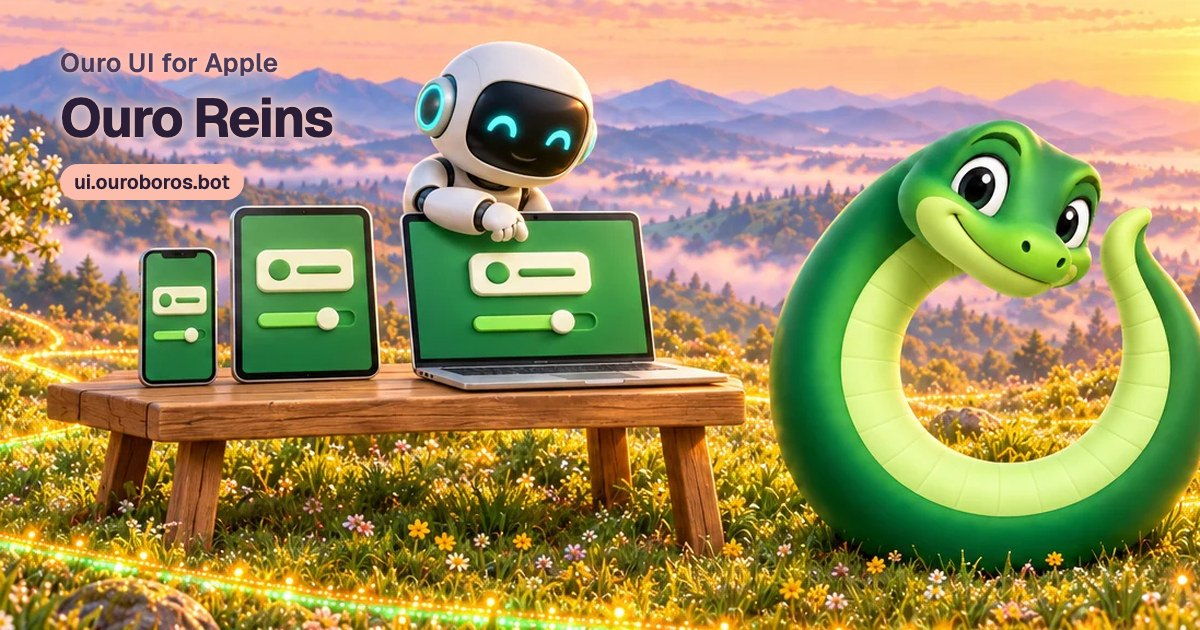
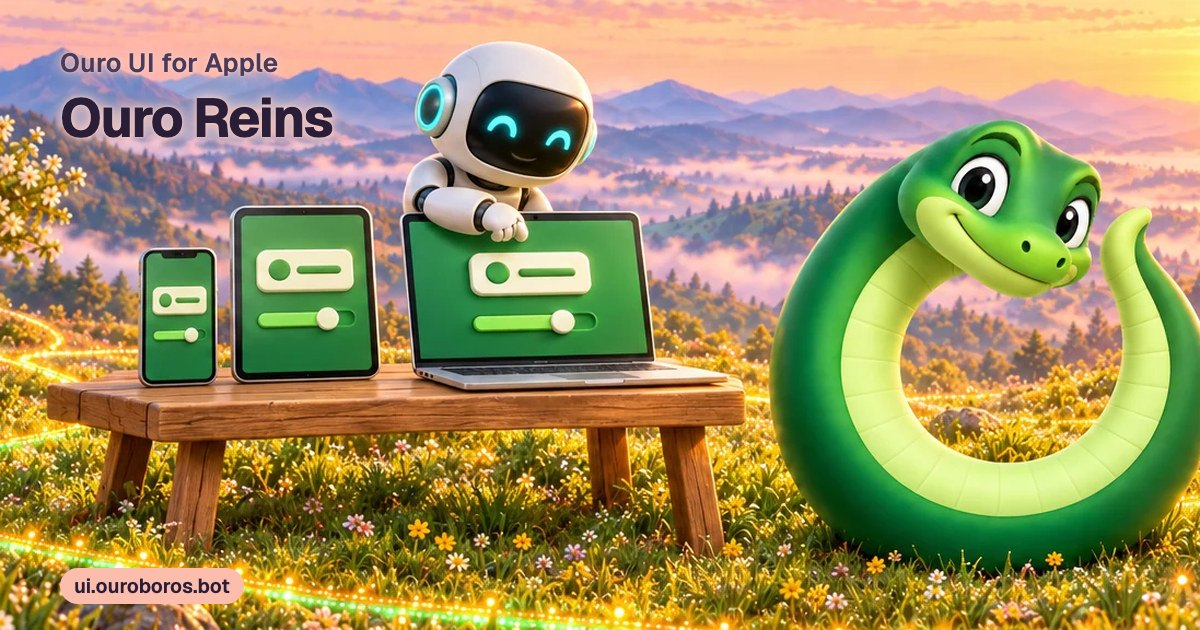
Site: the critics' second round: the header marks the right section on every docs page, the skip link lands on a docs page's title, card addresses sit clear of the drawings, and the leagues log keeps off the words

Changed region(s): [[0.0308, 0.8746, 0.2158, 0.9651], [0.0308, 0.2413, 0.2158, 0.3317]]

diff --git a/site/src/components/docs-header.tsx b/site/src/components/docs-header.tsx
@@ -28,11 +28,15 @@ function DocsXray(): JSX.Element | null {
   ) : null;
 }
 
-/** The header link a docs page is under: the catalog, each component's page and each helper's under Components, a guide under Docs. */
+/**
+ * The header link a docs page is under: the catalog, each component's page and each helper's under Ouro HX, Ouro AX's
+ * guide and its parts under Ouro AX, any other guide under Guides, and the lost page under none.
+ */
 export function headerPath(current: string): string {
-  return current === "/docs/" || docsItems.some((item) => current === `/docs/${item.name}/`) || helpers.some((page) => page.path === current)
-    ? "/docs/"
-    : "/docs/installing/";
+  if (current === "") return "";
+  if (current === "/docs/" || docsItems.some((item) => current === `/docs/${item.name}/`) || helpers.some((page) => page.path === current)) return "/docs/";
+  if (/^\/docs\/ax(-[a-z0-9-]+)?\/$/.test(current)) return "/ax/";
+  return "/docs/installing/";
 }
 
 const asPage = ({ path, label }: DocsLink) => ({ label, href: path });
@@ -172,10 +176,10 @@ function DocsMenu({ current }: { current: string }): JSX.Element {
           page={current}
           // Both docs sections list their pages, as the sidebar does on a wide screen, each list folded under its name.
           more={{
-            Install: (
+            Guides: (
               <Folds
                 groups={[
-                  { label: "Guides", links: guides.filter((link) => !isAxPart(link)).map((link) => ({ ...link, label: guideLabel(link.label) })) },
+                  { label: "More guides", links: guides.filter((link) => !isAxPart(link)).map((link) => ({ ...link, label: guideLabel(link.label) })) },
                   { label: "Ouro AX, part by part", links: guides.filter(isAxPart) },
                   { label: "Skill comparisons", links: comparisons },
                   { label: "Platforms", links: platforms },
@@ -233,6 +237,8 @@ export default function DocsHeader({ current }: { current: string }): JSX.Elemen
         page={current}
         menu={<DocsMenu current={current} />}
         gutters="docs"
+        // A docs page's title sits in its scene, before the sidebar and <main>: the skip link lands on it, so it is not skipped.
+        skipTo={current === "" ? undefined : "page-title"}
       />
       <DocsXray />
     </>

diff --git a/site/src/site.test.tsx b/site/src/site.test.tsx
@@ -8,6 +8,7 @@ import { docsPages, platformPages, publishedMarkdown, repositoryLink } from "./d
 import { unpinnedAddresses } from "../../scripts/addresses.mjs";
 import { parse, sourceHref } from "./docs/markdown";
 import { headTags } from "./head";
+import { headerPath } from "./components/docs-header";
 import { docsSections } from "./components/docs-sections";
 import { href, routes } from "./routes";
 import { AX_SECTION, HERO_SUBLINE, HERO_TITLE, VOYAGE_HERO } from "./copy";
@@ -367,7 +368,7 @@ describe("docs", () => {
       await expect.element(page.getByRole("link", { name: "Back to the surface" })).toHaveAttribute("href", href("/"));
       await expect.element(page.getByRole("link", { name: "Button", exact: true }).last()).toHaveAttribute("href", href("/docs/button/"));
       const main = page.getByRole("search");
-      const field = main.getByRole("searchbox", { name: "Search the docs" });
+      const field = main.getByRole("searchbox", { name: "Find a page or component" });
       await userEvent.fill(field, "text field");
       await expect.element(main.getByRole("status")).toHaveTextContent("One page by that name.");
       await expect.element(main.getByRole("link", { name: "TextField", exact: true })).toHaveAttribute("href", href("/docs/text-field/"));
@@ -468,6 +469,18 @@ it("the Updating page's note has the tag filled in and no raw-file hint", () => 
   expect(upgrading).not.toContain("{{latestRelease}}");
   expect(upgrading).not.toContain("Reading this file on GitHub");
   expect(upgrading).toContain(`ourostack/ouro-ui/ouro-base#${latestRelease}`);
+});
+
+describe("the header's current section on a docs page", () => {
+  it("is Ouro HX for the catalog and a component, Ouro AX for its guide and parts, Guides for another guide, and none on the lost page", () => {
+    expect(headerPath("/docs/")).toBe("/docs/");
+    expect(headerPath("/docs/button/")).toBe("/docs/");
+    expect(headerPath("/docs/ax/")).toBe("/ax/");
+    expect(headerPath("/docs/ax-cli/")).toBe("/ax/");
+    expect(headerPath("/docs/installing/")).toBe("/docs/installing/");
+    expect(headerPath("/docs/switching-from-shadcn/")).toBe("/docs/installing/");
+    expect(headerPath("")).toBe("");
+  });
 });
 
 describe("head tags", () => {

diff --git a/site/src/storybook.ts b/site/src/storybook.ts
@@ -113,15 +113,21 @@ export interface Card {
    * across the card's width under a band of the scene's own sky, which meets it on a hard edge.
    */
   crop?: { from: number; to: number };
+  /**
+   * Where the site's address goes, clear of every drawn figure: a bottom corner (the words' side unless `addressSide`
+   * says otherwise), or, on a card with a band of sky, the band's other end.
+   */
+  address?: "corner" | "band";
+  addressSide?: "left" | "right";
 }
 
 const APPLE = "Ouro UI for Apple";
 
 /** Every card, by the page that shows it. A docs page shows the docs card. */
 export const CARDS: Record<string, Card> = {
-  "/": { file: "home.jpg", scene: "ouro-hx", kicker: "Ouro UI", title: "Feels right to the people using it. Obvious to the agents building it.", side: "right" },
+  "/": { file: "home.jpg", scene: "ouro-hx", kicker: "Ouro UI", title: "Feels right to the people using it. Obvious to the agents building it.", side: "right", addressSide: "left" },
   "/nautilus/": { file: "nautilus.jpg", scene: "ouroboros-skills", kicker: "A story in chapters", title: "The Nautilus", side: "right" },
-  "/ax/": { file: "ax.jpg", scene: "playwright-focus-proof", kicker: "Ouro AX", title: "A morning with an agent", side: "right", width: 640, size: 46, crop: { from: 40, to: 1440 } },
+  "/ax/": { file: "ax.jpg", scene: "playwright-focus-proof", kicker: "Ouro AX", title: "A morning with an agent", side: "right", width: 640, size: 46, crop: { from: 0, to: 1536 }, address: "band", addressSide: "left" },
   "/apple/": { file: "apple.jpg", scene: "ouro-ui-apple", kicker: APPLE, title: "Same manners, now in Swift.", side: "left", width: 330, size: 44 },
   "/apple/hx/": { file: "apple-hx.jpg", scene: "ouro-ui-apple", kicker: APPLE, title: "Ouro HX for Apple", side: "left", width: 400 },
   "/apple/feel/": { file: "apple-feel.jpg", scene: "ouro-ui-apple", kicker: APPLE, title: "Ouro Feel", side: "left", width: 400 },

diff --git a/site/src/voyage/site-menu.tsx b/site/src/voyage/site-menu.tsx
@@ -35,7 +35,7 @@ export const SITE_SECTIONS: readonly MenuSection[] = [
     pages: APPLE_PAGES.slice(1).map((page) => ({ label: page.label, href: page.path })),
   },
   {
-    label: "Install",
+    label: "Guides",
     href: "/docs/installing/",
     hint: "Install it, switch to it, keep it fresh",
     pages: [
@@ -43,7 +43,7 @@ export const SITE_SECTIONS: readonly MenuSection[] = [
       { label: "Updating installed components", href: "/docs/updating/" },
     ],
   },
-  // Ouro UI's two halves, side by side: HX's components, then AX. HX keeps the place Components had, after Docs, so on a
+  // Ouro UI's two halves, side by side: HX's components, then AX. HX keeps the place Components had, after Guides, so on a
   // phone its long folded list of components sits far down the menu, which opens scrolled to the page you are on.
   { label: "Ouro HX", href: "/docs/", hint: "Levers, dials and portholes" },
   { label: "Ouro AX", href: "/ax/", hint: "A morning with an agent" },
@@ -158,7 +158,7 @@ export function useSheetShown(ref: RefObject<HTMLElement | null>, shown: (on: bo
 
 /**
  * The menu: each section with its line, then its pages. `more` adds to a section by its label (the docs pages add
- * their guides under Docs and every component under Ouro HX). It opens scrolled to the page you are on.
+ * their guides under Guides and every component under Ouro HX). It opens scrolled to the page you are on.
  */
 export function SiteMenu({ page, more }: { page: string; more?: Readonly<Record<string, ReactNode>> | undefined }): JSX.Element {
   const current = normalizePath(page);

diff --git a/site/src/components/lost-at-sea.tsx b/site/src/components/lost-at-sea.tsx
@@ -122,11 +122,11 @@ export function LostAtSea(): JSX.Element {
       <div className="flex flex-wrap justify-center gap-3">
         <Button href={href("/")}>Back to the surface</Button>
         <Button href={href("/docs/")} variant="outline" tone="secondary">
-          Browse the docs
+          Browse components
         </Button>
       </div>
       <div role="search" className="mt-4 grid w-full max-w-sm gap-2 text-start">
-        <TextField label="Search the docs" type="search" clearable placeholder="A component or a guide" value={query} onChange={(event) => setQuery(event.currentTarget.value)} />
+        <TextField label="Find a page or component" type="search" clearable placeholder="A component or a guide" value={query} onChange={(event) => setQuery(event.currentTarget.value)} />
         {query.trim() !== "" && (
           <p role="status" className="m-0 text-sm text-muted-foreground">
             {found.length === 0 ? "Nothing on our charts by that name. Try a component, like Button." : `${found.length === 1 ? "One page" : `${found.length} pages`} by that name.`}

diff --git a/site/src/components/docs-shell.tsx b/site/src/components/docs-shell.tsx
@@ -46,7 +46,7 @@ export function DocsShell({ current, opener, children }: { current: string; open
           <StoryWorld scene={opener.scene} className={opener.tall ? "story-world-short story-world-still" : "story-world-docs story-world-still"} decorative>
             <Container className={COLUMNS}>
               <div className="max-sm:hidden" />
-              <div className="min-w-0 max-w-3xl">
+              <div className="min-w-0">
                 <p className="story-world-eyebrow">{opener.eyebrow}</p>
                 <h1 id="page-title" className="story-world-title">
                   {opener.title}
@@ -64,7 +64,7 @@ export function DocsShell({ current, opener, children }: { current: string; open
           </Suspense>
         </aside>
         <div className="min-w-0">
-          <main id="main" className={opener ? "max-w-3xl pt-6 lg:pt-8" : "max-w-3xl pt-8 lg:pt-10"}>
+          <main id="main" className={opener ? "pt-6 lg:pt-8" : "pt-8 lg:pt-10"}>
             {children}
             <Popups />
           </main>

diff --git a/site/src/voyage/layout.tsx b/site/src/voyage/layout.tsx
@@ -33,7 +33,7 @@ export function VoyageFooter(): JSX.Element {
             </p>
           </div>
           <nav aria-label="Ouro UI">
-            <ul className="m-0 -ms-2 flex list-none flex-wrap gap-x-1 p-0">
+            <ul className="m-0 -ms-2 flex list-none flex-wrap gap-x-1 p-0 sm:-me-2">
               {links.map((link) => (
                 <li key={link.label}>
                   <a
@@ -41,6 +41,11 @@ export function VoyageFooter(): JSX.Element {
                     className="inline-flex min-h-11 items-center rounded-md px-2 text-muted-foreground no-underline outline-ring focus-visible:outline-2 focus-visible:outline-offset-2 pointer-fine:hover:text-foreground sm:min-h-9"
                   >
                     {link.label}
+                    {link.url.startsWith("http") && (
+                      <span aria-hidden="true" className="ms-1">
+                        ↗
+                      </span>
+                    )}
                   </a>
                 </li>
               ))}

diff --git a/site/e2e/site-menu.spec.ts b/site/e2e/site-menu.spec.ts
@@ -302,7 +302,7 @@ test("on a phone the menu's Search, away from the docs, opens the bar's search p
   // real clock: focus stays in the field until something moves it; no timer does.
   await expect(field).toBeFocused();
   // It finds what the menu lists, and every component and guide.
-  for (const [query, name] of [["feel", "Ouro Feel"], ["toggle", "Toggle"], ["theming", "Theming"], ["timer", "useTimer"], ["installing", "Install"], ["ouro ax guide", "Ouro AX guide"], ["overview", "Ouro HX"]] as const) {
+  for (const [query, name] of [["feel", "Ouro Feel"], ["toggle", "Toggle"], ["theming", "Theming"], ["timer", "useTimer"], ["installing", "Guides"], ["ouro ax guide", "Ouro AX guide"], ["overview", "Ouro HX"]] as const) {
     await field.fill(query);
     await expect(page.getByRole("option", { name: new RegExp(`^${name}\\b`) }).first()).toBeVisible();
   }

diff --git a/site/e2e/catalog.spec.ts b/site/e2e/catalog.spec.ts
@@ -361,7 +361,7 @@ test("the 404 page is lost at sea: a guess, a search and the way home, passing t
   await expect(page.locator("html[data-site-ready]")).toBeAttached();
   await expect(page.getByRole("heading", { level: 1, name: "Lost at sea" })).toBeVisible();
   await expect(page.getByRole("link", { name: "Back to the surface" })).toBeVisible();
-  await page.getByRole("searchbox", { name: "Search the docs" }).fill("button");
+  await page.getByRole("searchbox", { name: "Find a page or component" }).fill("button");
   await expect(page.getByRole("search").getByRole("link", { name: "Button", exact: true })).toBeVisible();
   await page.evaluate(() => document.fonts.ready);
   expect(await auditPage(page, browserName)).toBe("");

diff --git a/site/src/routes.ts b/site/src/routes.ts
@@ -39,7 +39,7 @@ export const routes: Route[] = [
   { path: "/apple/start/", title: "Get started · Ouro UI for Apple", description: "Add one Swift package, set a theme, animate with the shared spring, play a named haptic, and X-ray your App Intents in CI." },
   {
     path: "/docs/",
-    title: "Docs · Ouro HX",
+    title: "Components · Ouro HX",
     description: claim("Every Ouro HX component, with install commands, props and live demos.", {
       source: { file: "site/src/site.test.tsx" },
       verify: { testExists: "site/src/site.test.tsx::docs > has a page for every registry item at docs/<name>" },

diff --git a/site/src/voyage/header.tsx b/site/src/voyage/header.tsx
@@ -223,16 +223,19 @@ export function VoyageHeader({
   page = path,
   menu,
   gutters = "voyage",
+  skipTo = "main",
 }: {
   path: string;
   page?: string;
   menu?: ReactNode;
   gutters?: keyof typeof GUTTERS;
+  /** The id the skip link jumps to: the page's <main>, or a docs page's title, which comes before it. */
+  skipTo?: string | undefined;
 }): JSX.Element {
   const [searching, setSearching] = useCommandShortcut("mod+k");
   return (
     <>
-      <SkipLink />
+      <SkipLink target={skipTo} />
       <FamilyBar
         links={FAMILY}
         current={FAMILY_CURRENT}

diff --git a/site/src/footer-links.ts b/site/src/footer-links.ts
@@ -2,7 +2,7 @@ import { GITHUB, href } from "./paths";
 
 /** The site's own links at the foot of every page, the voyage's and the docs' alike: one list, one place for each. */
 export const FOOTER_LINKS: readonly { label: string; url: string }[] = [
-  { label: "Install", url: href("/docs/installing/") },
+  { label: "Guides", url: href("/docs/installing/") },
   { label: "Ouro HX", url: href("/docs/") },
   { label: "Ouro AX", url: href("/ax/") },
   { label: "Storybook", url: "https://ui.ouroboros.bot/storybook/" },
